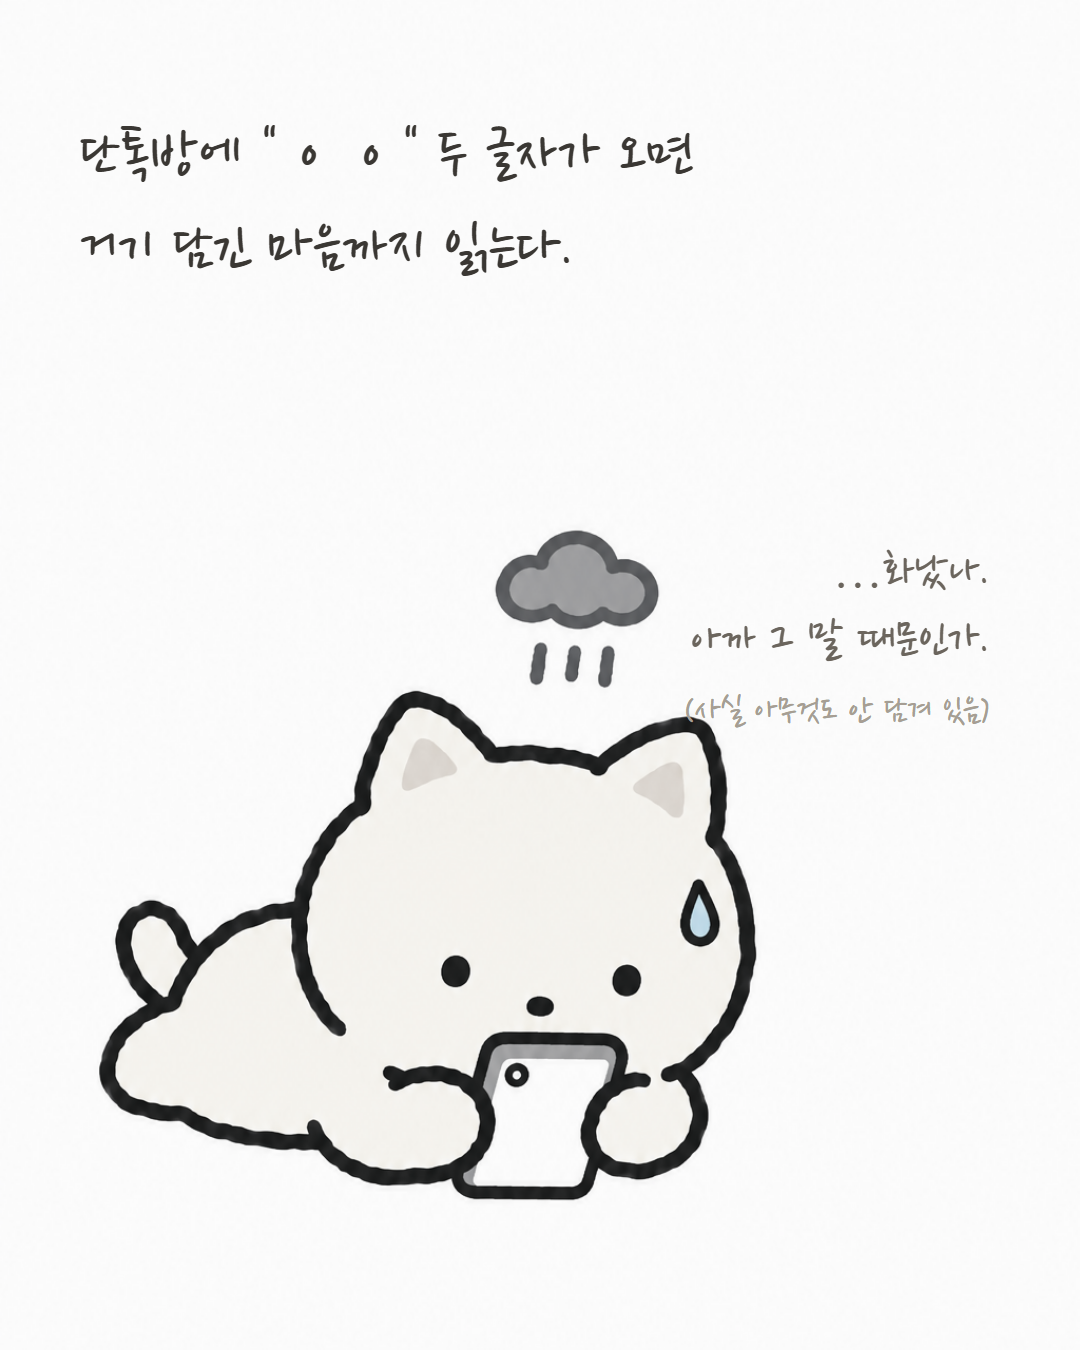
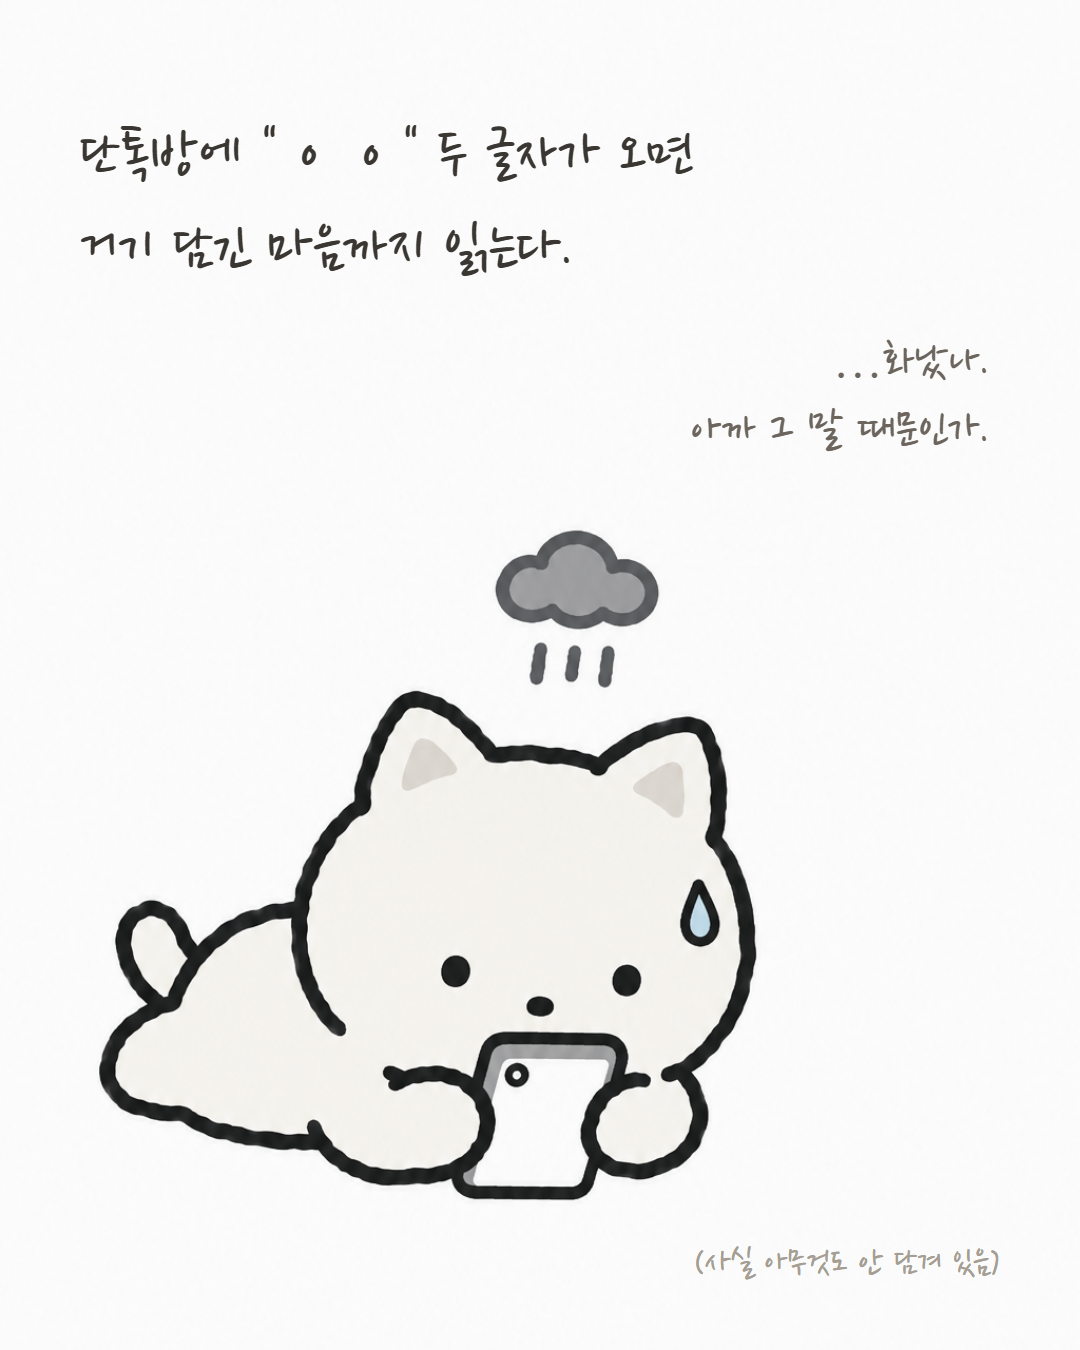
컷 4 속마음 텍스트가 그림과 겹치는 문제 수정 + 그림 영역 측정 스크립트
원인: 하단 기준 크롭으로 그림이 128px 올라왔는데 텍스트는 크롭 전 눈대중 좌표(top 540)에 둠 →
먹구름 상단(531)과 정확히 겹침. 폭 넓은 폰트에서 더 심화. scripts/art_bbox.py로 측정 후 배치하도록 스킬에 반영.

diff --git a/episodes/ep01/fonts-compare.html b/episodes/ep01/fonts-compare.html
@@ -59,7 +59,8 @@ const FONTS = [
 ];
 const CUT4 = `<img src="img/cut4.png" alt="">
   <p class="nar">단톡방에 "ㅇㅇ" 두 글자가 오면<br>거기 담긴 마음까지 읽는다.</p>
-  <p class="mind" style="right:90px;top:540px;text-align:right">…화났나.<br>아까 그 말 때문인가.<br><span style="font-size:38px;color:#A69E93">(사실 아무것도 안 담겨 있음)</span></p>`;
+  <p class="mind" style="right:90px;top:330px;text-align:right">…화났나.<br>아까 그 말 때문인가.</p>
+  <p class="mind" style="right:80px;bottom:60px;font-size:38px;color:#A69E93">(사실 아무것도 안 담겨 있음)</p>`;
 const CUT5 = `<img src="img/cut5.png" alt="">
   <p class="nar">동생은 말한다. "그냥 물어보면 되잖아."<br>그게 되면 초능력자가 아니지.</p>`;
 document.getElementById('cards').innerHTML = FONTS.map(([name, fam, lic], i) => `

diff --git a/episodes/ep01/compose.html b/episodes/ep01/compose.html
@@ -46,7 +46,8 @@
 <section id="s4" class="dim">
   <img src="img/cut4.png" alt="">
   <p class="nar">단톡방에 "ㅇㅇ" 두 글자가 오면<br>거기 담긴 마음까지 읽는다.</p>
-  <p class="mind" style="right:90px;top:540px;text-align:right">…화났나.<br>아까 그 말 때문인가.<br><span style="font-size:38px;color:#A69E93">(사실 아무것도 안 담겨 있음)</span></p>
+  <p class="mind" style="right:90px;top:330px;text-align:right">…화났나.<br>아까 그 말 때문인가.</p>
+  <p class="mind" style="right:80px;bottom:60px;font-size:38px;color:#A69E93">(사실 아무것도 안 담겨 있음)</p>
 </section>
 
 <section id="s5" class="dim">

diff --git a/scripts/art_bbox.py b/scripts/art_bbox.py
@@ -1,0 +1,27 @@
+"""컷 이미지에서 그림이 차지하는 영역을 슬라이드 좌표(1080×1350)로 출력.
+텍스트 위치를 눈대중이 아니라 측정값으로 잡기 위한 도구.
+
+  python scripts/art_bbox.py episodes/ep01/img/cut4.png [...]
+  --anchor bottom|center : compose.html의 object-position 기준 (기본 bottom)
+"""
+import argparse
+from PIL import Image
+
+def bbox(path, anchor):
+    im = Image.open(path).convert("L")
+    w, h = im.size                      # 1024×1536
+    ch = round(w * 1350 / 1080)         # 4:5 크롭 높이 1280
+    top = h - ch if anchor == "bottom" else (h - ch) // 2
+    crop = im.crop((0, top, w, top + ch))
+    box = crop.point(lambda v: 255 if v < 235 else 0).getbbox()  # 흰 배경 제외
+    s = 1080 / w
+    return [round(v * s) for v in box] if box else None
+
+if __name__ == "__main__":
+    ap = argparse.ArgumentParser()
+    ap.add_argument("files", nargs="+")
+    ap.add_argument("--anchor", default="bottom", choices=["bottom", "center"])
+    a = ap.parse_args()
+    for f in a.files:
+        b = bbox(f, a.anchor)
+        print(f"{f}: x {b[0]}-{b[2]}  y {b[1]}-{b[3]}  (빈 상단 {b[1]}px = {b[1]/13.5:.0f}%)")

diff --git a/.claude/skills/make-episode/SKILL.md b/.claude/skills/make-episode/SKILL.md
@@ -42,6 +42,7 @@ description: 「당신은 약간 초능력자?」 에피소드 1편 제작 — M
 - 컷: 상단 내레이션 1–2줄. 속마음은 캐릭터 옆에 작은 회색 글자, 말풍선·박스 없이.
 - Playwright MCP로 각 `<section>`을 `img/slideN.png`로 스크린샷 (viewport 1080×1350, `clip`). MCP 브라우저가 사용 중이면 `chrome-headless-shell.exe --headless --window-size=1080,1350 --virtual-time-budget=10000 --screenshot=img/slideN.png compose.html?only=N` (N은 0부터; `?only`는 compose.html에 그 슬라이드만 남기는 스크립트로 처리).
 - 이미지 크롭은 `object-position:50% 100%`(하단 기준)로 발이 안 잘리게 하고, 표지는 `object-fit:contain`.
+- 속마음 등 그림 옆 텍스트는 `python scripts/art_bbox.py img/cutN.png`로 그림 영역을 잰 뒤 그 밖에 놓는다. 프롬프트의 "상단 40% 비움"은 대략만 지켜지고(30~47%), 글자 폭은 폰트마다 달라 눈대중으로 두면 겹친다.
 
 ## 4. 산출물과 마무리
 
